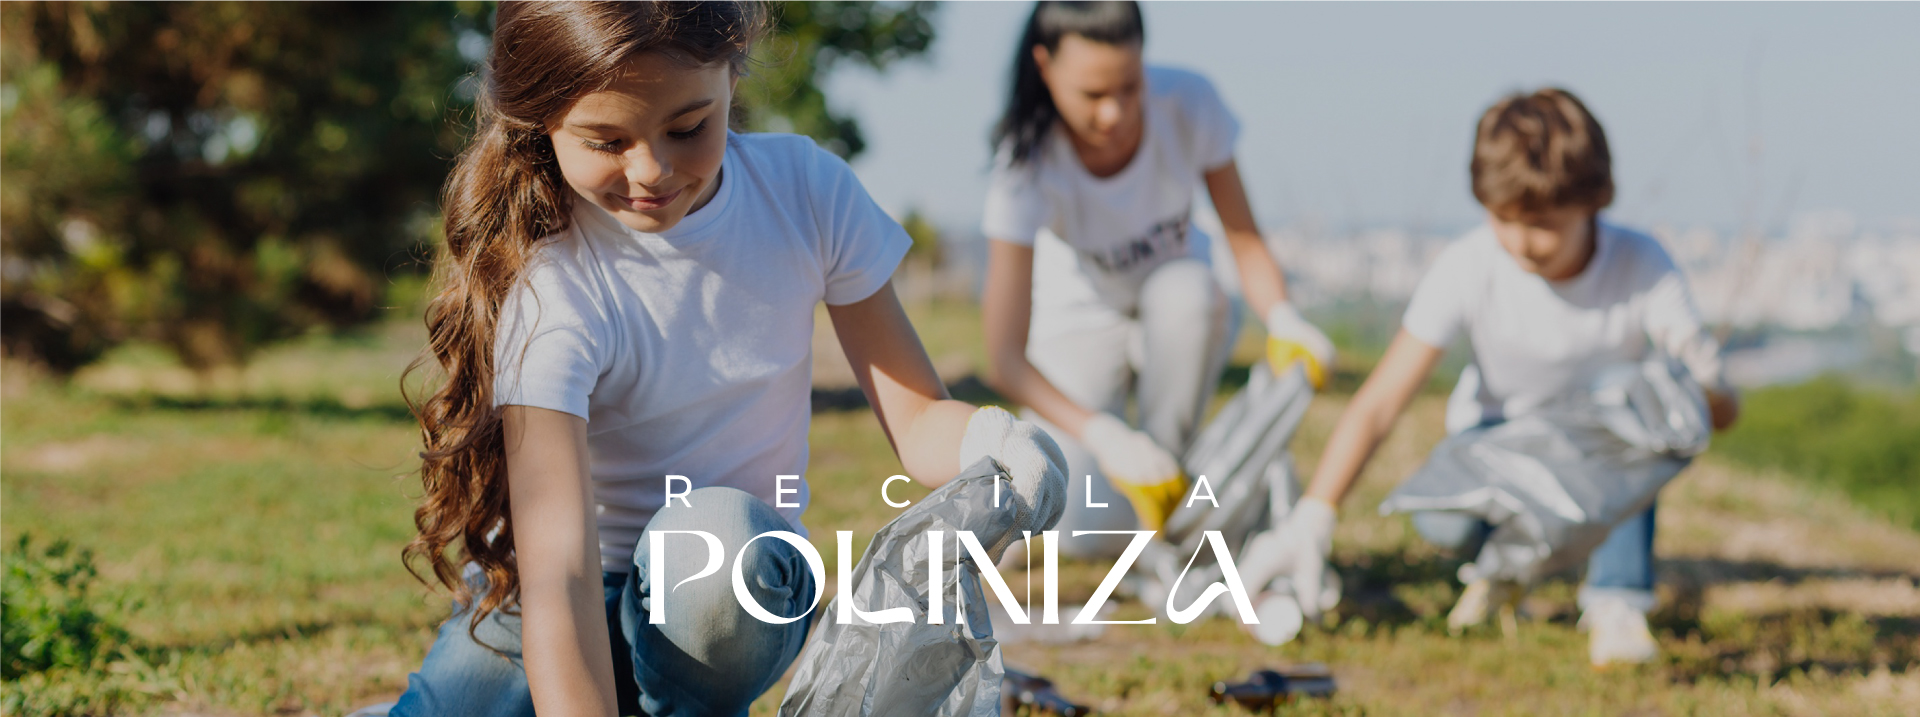
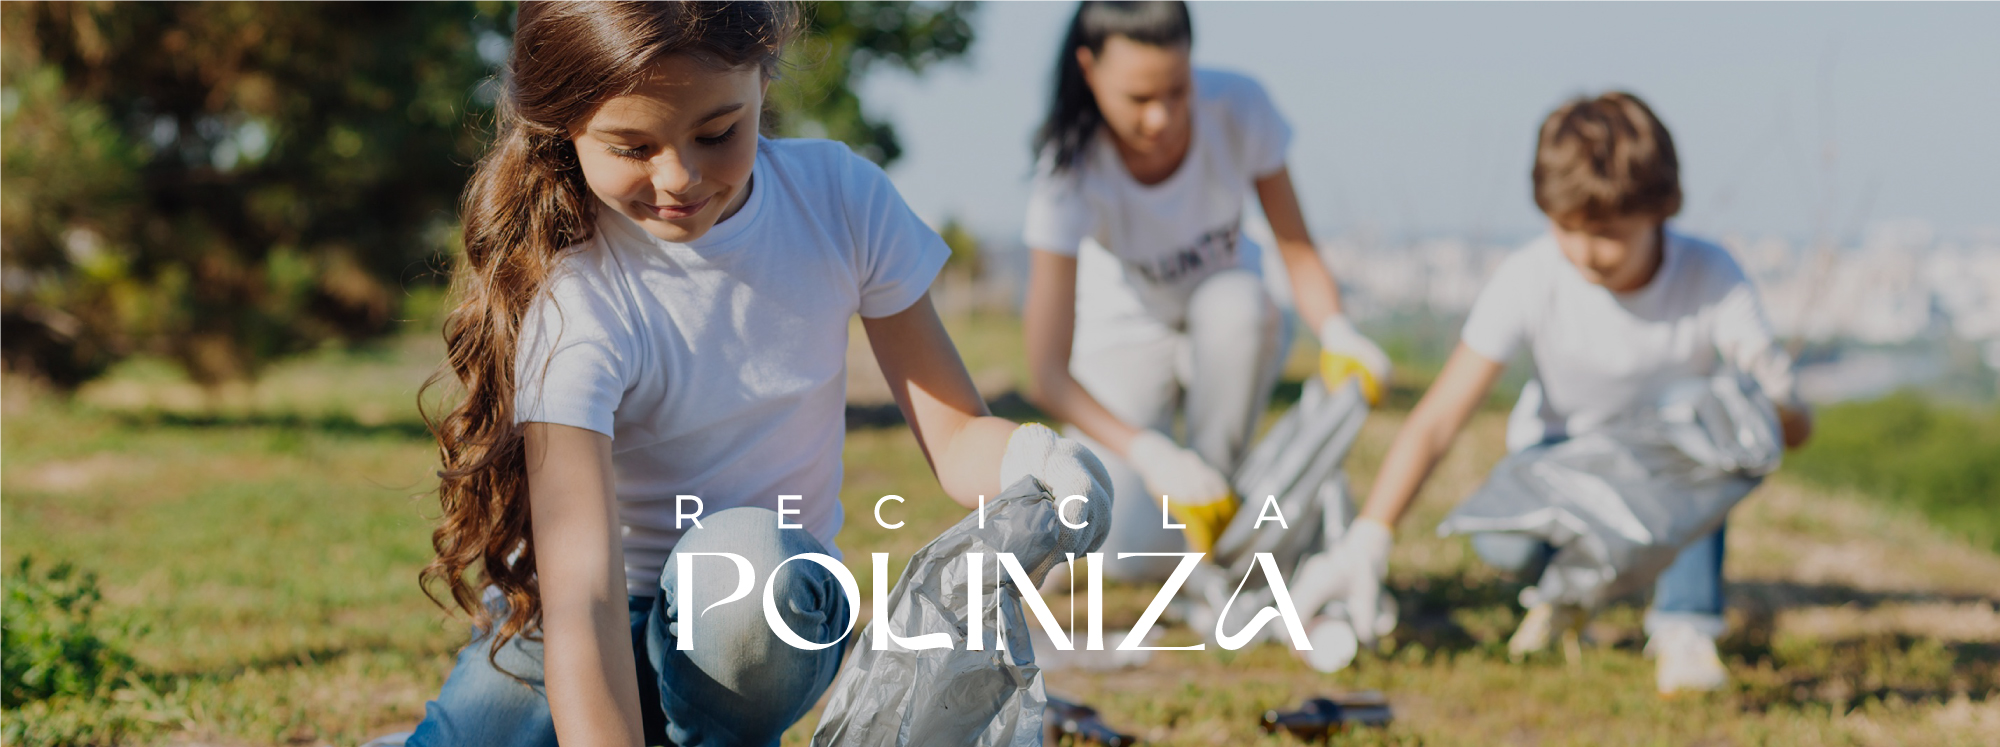
(AJUSTE) cambio de imagen del carrusel y adicion de numero

Changed region(s): [[0.3125, 0.6444, 0.5938, 0.7057], [0.5312, 0.7671, 0.5625, 0.8591], [0.625, 0.675, 0.6562, 0.7057]]

diff --git a/index.html b/index.html
@@ -32,20 +32,14 @@
     
 
     <!-- Start Script -->
-    <script>
-        (g=>{var h,a,k,p="The Google Maps JavaScript API",c="google",l="importLibrary",q="__ib__",m=document,b=window;b=b[c]||(b[c]={});var d=b.maps||(b.maps={}),r=new Set,e=new URLSearchParams,u=()=>h||(h=new Promise(async(f,n)=>{await (a=m.createElement("script"));e.set("libraries",[...r]+"");for(k in g)e.set(k.replace(/[A-Z]/g,t=>"_"+t[0].toLowerCase()),g[k]);e.set("callback",c+".maps."+q);a.src=`https://maps.${c}apis.com/maps/api/js?`+e;d[q]=f;a.onerror=()=>h=n(Error(p+" could not load."));a.nonce=m.querySelector("script[nonce]")?.nonce||"";m.head.append(a)}));d[l]?console.warn(p+" only loads once. Ignoring:",g):d[l]=(f,...n)=>r.add(f)&&u().then(()=>d[l](f,...n))})({
-          key: "AIzaSyD1Yz1uV5OjPbSsEPYaMnTrHbgmzjktBFo",
-          // Add other bootstrap parameters as needed, using camel case.
-          // Use the 'v' parameter to indicate the version to load (alpha, beta, weekly, etc.)
-        });
-    </script>
-    <script>
-        
+    <script>   
         var currentSlide = 0;
         function changeSlide(n) {
             
             var carousel = document.querySelector('.carousel5');
             currentSlide += n;
+
+
             if (currentSlide < 0) {
                 currentSlide = 2;
             } else if (currentSlide > 2) {

diff --git a/assets/js/components/footer.js b/assets/js/components/footer.js
@@ -34,7 +34,7 @@ export function Footer() {
                         </p>
                         <p class="">
                             <img src="assets/svg/phone.svg" alt="">
-                            <small>+57 316 441 44 52</small>
+                            <small>+57 3143953209</small>
                         </p>
             </div>
             <div class="col"></div>

diff --git a/assets/js/router.js b/assets/js/router.js
@@ -41,7 +41,7 @@ export function Router() {
         bodyContent.appendChild(PQR());
         // ContactMap();
     } else {
-        console.log('505')
+        console.log('404')
     }
     
 
